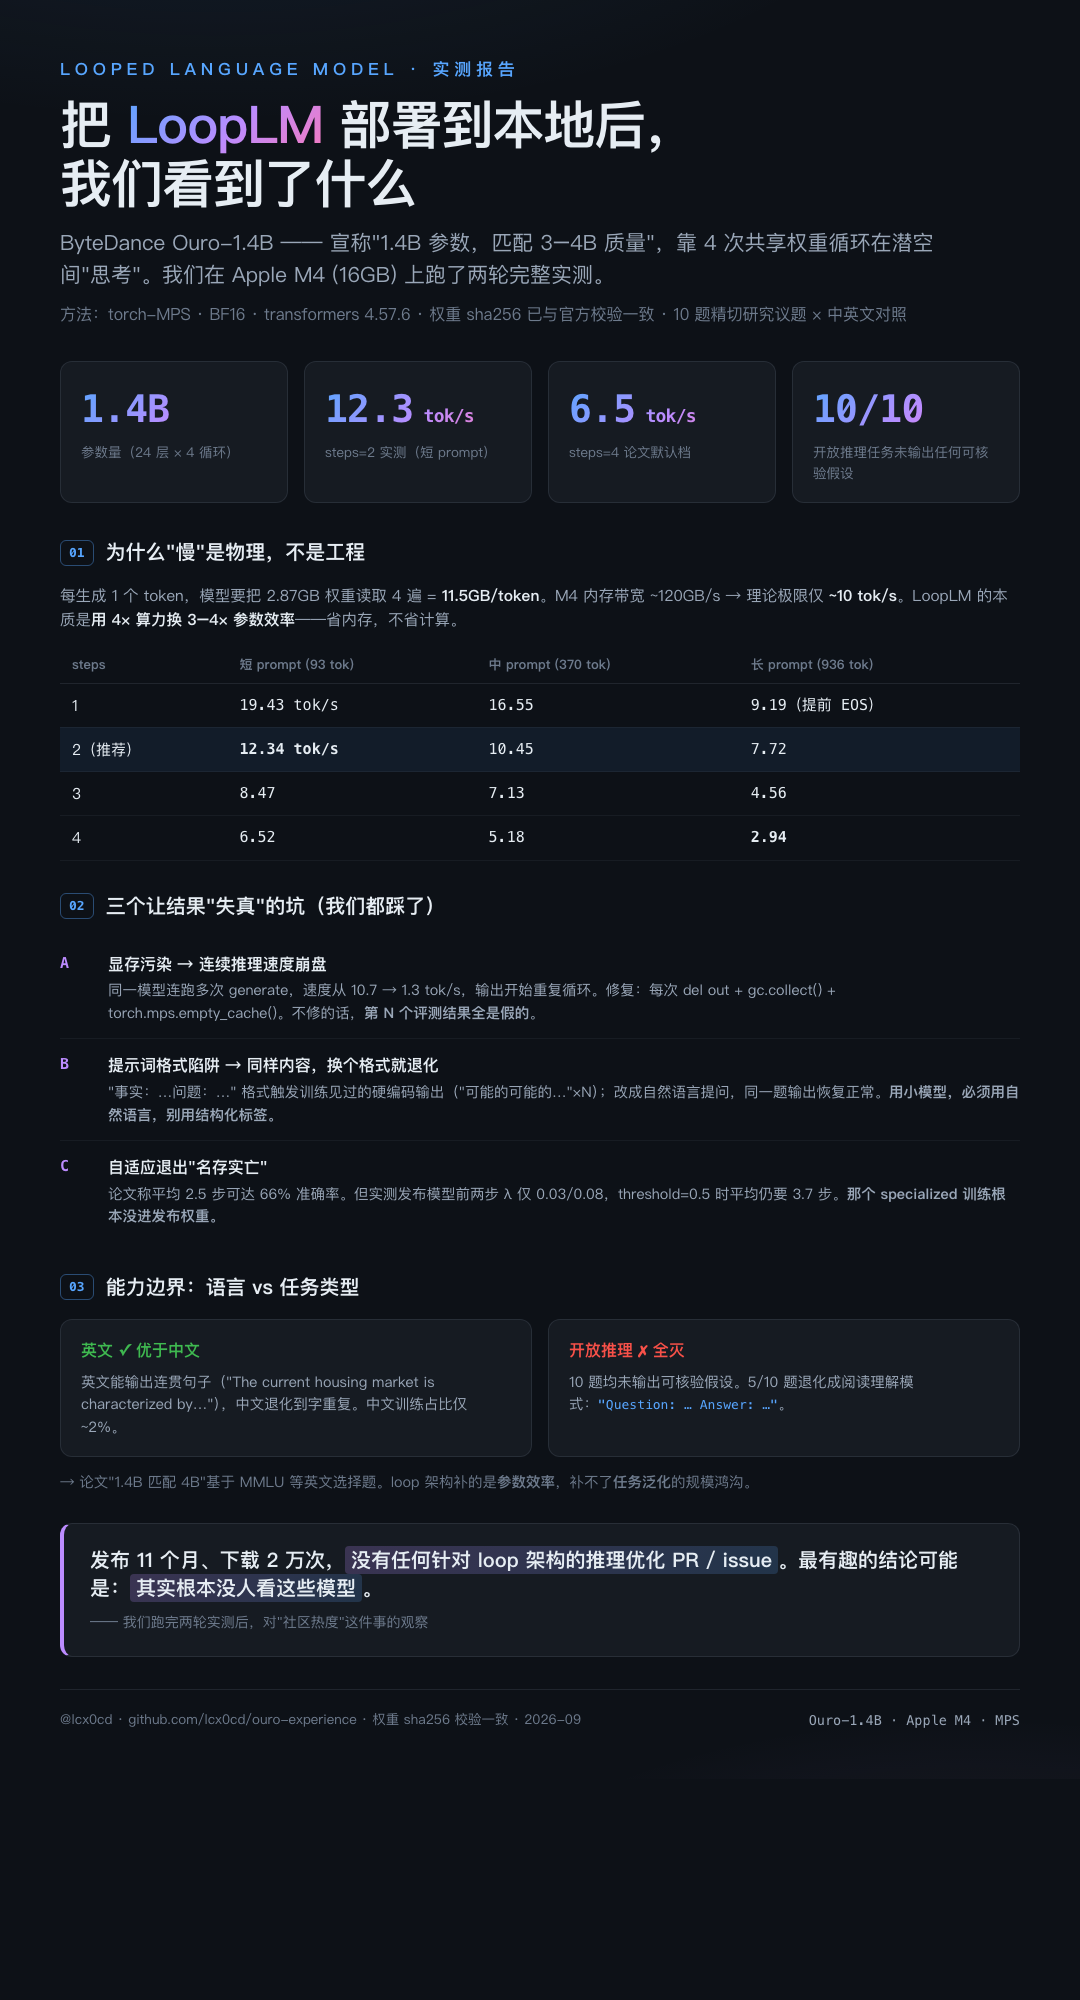
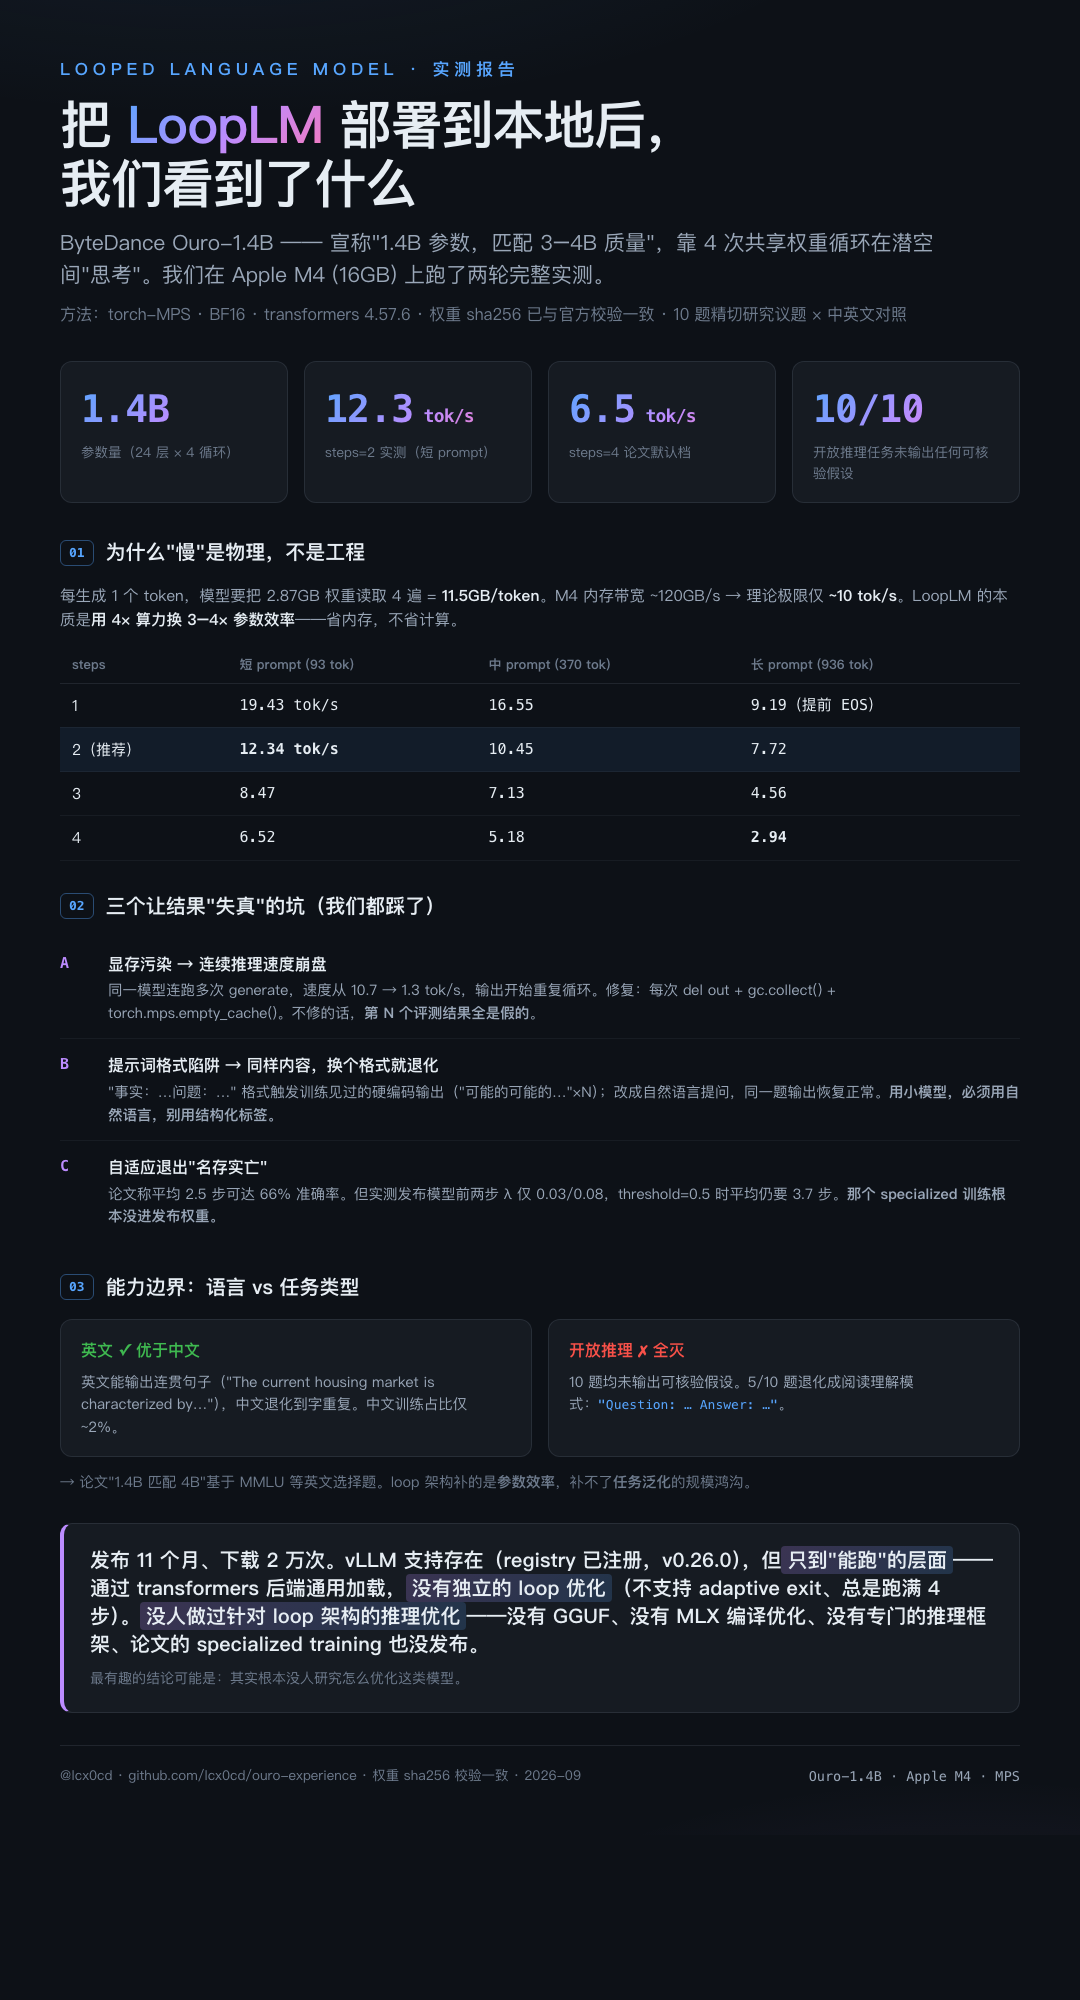
修正 vLLM 生态表述 + 确认并发表'没人研究 loop 优化'的判断

Changed region(s): [[0.0611, 0.775, 0.9167, 0.868]]

diff --git a/poster/looplm-poster.html b/poster/looplm-poster.html
@@ -124,8 +124,8 @@
   </div>
 
   <div class="quote">
-    <div class="q">发布 11 个月、下载 2 万次，<span class="hl">没有任何针对 loop 架构的推理优化 PR / issue</span>。最有趣的结论可能是：<span class="hl">其实根本没人看这些模型</span>。</div>
-    <div class="a">—— 我们跑完两轮实测后，对"社区热度"这件事的观察</div>
+    <div class="q">发布 11 个月、下载 2 万次。vLLM 支持存在（registry 已注册，<span class="mono">v0.26.0</span>），但<span class="hl">只到"能跑"的层面</span>——通过 transformers 后端通用加载，<span class="hl">没有独立的 loop 优化</span>（不支持 adaptive exit、总是跑满 4 步）。<span class="hl">没人做过针对 loop 架构的推理优化</span>——没有 GGUF、没有 MLX 编译优化、没有专门的推理框架、论文的 specialized training 也没发布。</div>
+    <div class="a">最有趣的结论可能是：<span class="hl">其实根本没人研究怎么优化这类模型</span>。</div>
   </div>
 
   <div class="footer">

diff --git a/README.md b/README.md
@@ -79,6 +79,20 @@ torch.mps.empty_cache()
 
 ---
 
+## 官方生态核查 + 我们的判断（2026-09）
+
+项目页 `ouro-llm.github.io` 声称 "vLLM and SGLang integration is ready"。复核后的准确状态：
+
+- **vLLM**：`registry.py` 已注册 `OuroForCausalLM`（v0.26.0），但无独立 `ouro.py`——transformers 后端通用加载。模型卡确认"vLLM 不支持 adaptive exit，总是跑满 4 步"。属"能跑"层面，无 loop 专门优化。
+- **SGLang**：同通用加载，无 loop 专门实现。
+- **无 GGUF/llama.cpp**（架构不支持）、**无 AWQ/GPTQ**（HF 仅列 MLX 4bit）、**无 MLX 编译优化**（mlx-engine Issue #277 无 PR）。
+
+**判断（已确认并发表）**：发布 11 个月、下载 2 万次，官方支持存在但都停留在"能跑"的通用加载层面——**没有出现过针对 loop 架构的推理优化工作**（无 GGUF、无 MLX 编译优化、无专门推理框架、论文 3.4 节的 specialized adaptive exit training 也未发布进权重）。这个架构方向的推理优化基本是空白。
+
+**对我们结论的影响**：这解释了为什么 M4 上没有现成的提速路径——不是我们没找到，而是这个方向本身缺乏社区投入。
+
+---
+
 ## 快速开始
 
 ```bash

diff --git a/poster/tweet-draft.md b/poster/tweet-draft.md
@@ -38,8 +38,11 @@ del out; gc.collect(); torch.mps.empty_cache()
 英文优于中文（中文训练仅 ~2%），但开放推理任务全灭——10/10 未输出可核验假设，5 题退化成阅读理解模式。
 
 7/ 最有趣的观察：
-发布 11 个月、2 万下载，没有任何针对 loop 架构的推理优化 PR / issue。
-也许……其实根本没人看这些模型。
+发布 11 个月、2 万下载。vLLM 支持存在（registry 已注册 v0.26.0），但只到"能跑"——transformers 通用加载，无独立 loop 优化（不支持 adaptive exit、跑满 4 步）。没有 GGUF、没有 MLX 编译优化、没有专门推理框架、论文的 specialized training 也没发布。
+也许……其实根本没人研究怎么优化这类模型。
+
+8/ 补充确认：
+项目页 (ouro-llm.github.io) 声称 vLLM/SGLang integration "ready"——我们核查后确认为 vLLM registry 条目 + transformers 后端加载，属官方承认支持但无 loop 架构专门实现。判断不变：这个架构方向的推理优化是空白。
 
 完整实验数据（基准、gate 分布、10 题输出、显存污染复现）：
 github.com/lcx0cd/ouro-experience
